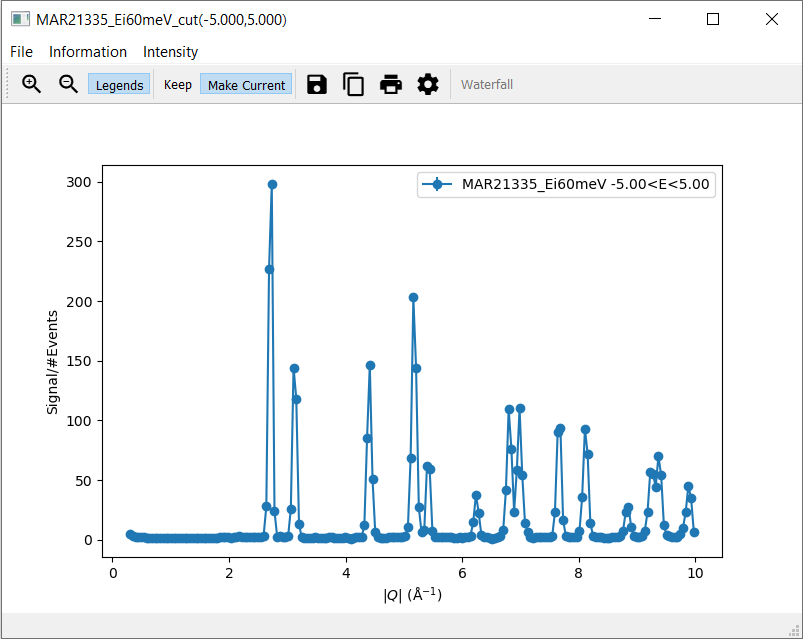
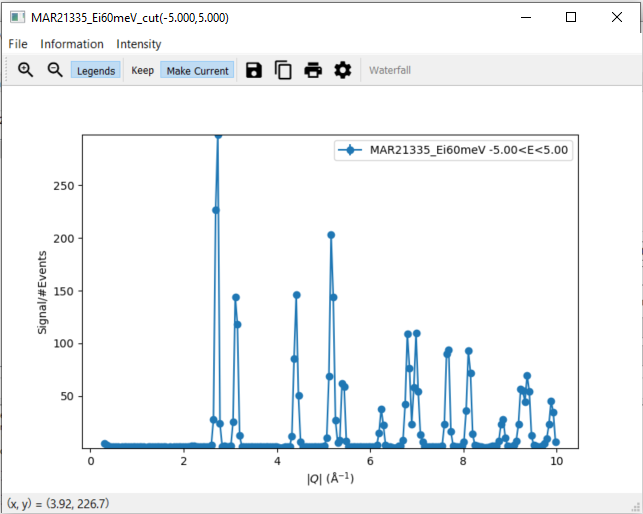
Automatic update of developer site

diff --git a/Testing/Direct/MSliceTestGuide.html b/Testing/Direct/MSliceTestGuide.html
@@ -305,7 +305,7 @@
 <li><p>Check that the <code class="docutils literal notranslate"><span class="pre">File</span></code> menu only has one menu item, <code class="docutils literal notranslate"><span class="pre">Close</span></code></p></li>
 <li><p>Change the rectangle by changing its size or dragging it to a different area of the slice plot. The cut plot should update accordingly.</p></li>
 <li><p>Click on <code class="docutils literal notranslate"><span class="pre">Save</span> <span class="pre">Cut</span> <span class="pre">to</span> <span class="pre">Workspace</span></code> and check the <code class="docutils literal notranslate"><span class="pre">MD</span> <span class="pre">Histo</span></code> tab of the Workspace Manager to verify that the new workspace was added</p></li>
-<li><p>Click on Flip Integration Axis. The y axis label changes from <code class="docutils literal notranslate"><span class="pre">Energy</span> <span class="pre">Transfer</span> <span class="pre">(meV)</span></code> to <span class="math notranslate nohighlight">\(|Q| (\mathrm{\AA}^{-1})\)</span> or vice versa, depending on the initial label.</p></li>
+<li><p>Click on Flip Integration Axis. The x axis label changes from <code class="docutils literal notranslate"><span class="pre">Energy</span> <span class="pre">Transfer</span> <span class="pre">(meV)</span></code> to <span class="math notranslate nohighlight">\(|Q| (\mathrm{\AA}^{-1})\)</span> or vice versa, depending on the initial label.</p></li>
 </ol>
 <figure class="align-center">
 <a class="reference internal image-reference" href="../../_images/flip_integration_axis.png"><img alt="flip_integration_axis.png" src="../../_images/flip_integration_axis.png" style="width: 10%;" />
